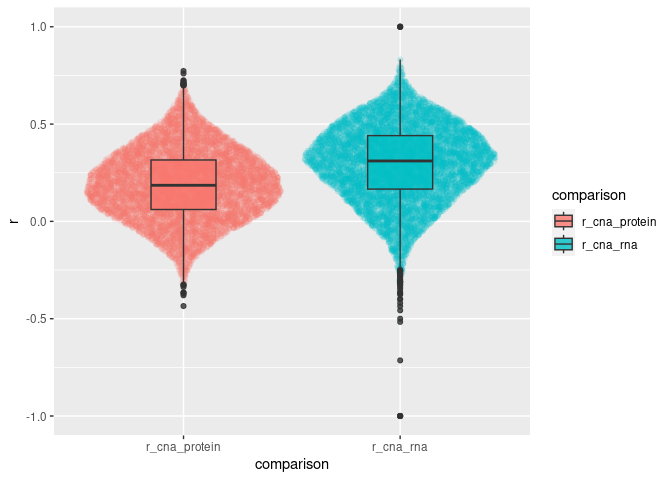
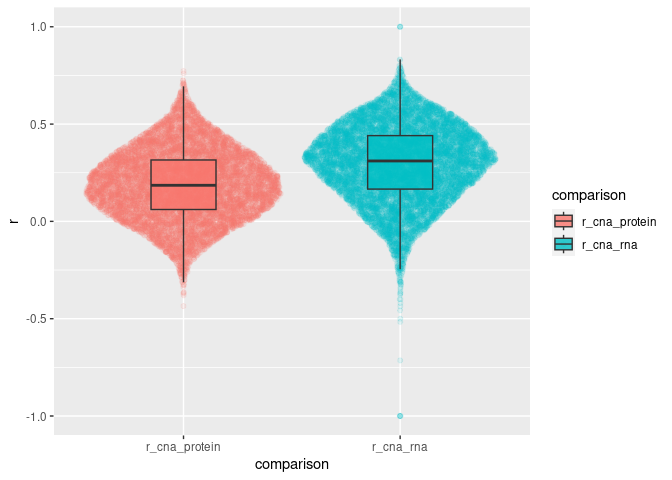
Removed outliers in boxplot.

diff --git a/simple_figures/simple_figures.md b/simple_figures/simple_figures.md
@@ -1,97 +1,97 @@
 
-## Simple figures
+## *Simple figures*
 
-In this short tutorial, we will see how to create publication-grade
+*In this short tutorial, we will see how to create publication-grade
 figures without using a mouse: we will write the instructions for the
-computer to draw the figures.
+computer to draw the figures.*
 
-### Objectives
+### *Objectives*
 
-After this mini-workshop, you should:
+*After this mini-workshop, you should:*
 
--   have a basic understanding of a workflow that can build figures
-    computationally
+-   *have a basic understanding of a workflow that can build figures
+    computationally*
 
--   be able to reproduce the examples on your own data
+-   *be able to reproduce the examples on your own data*
 
--   find help if you want to make new figures
+-   *find help if you want to make new figures*
 
-Before you can use this independently in your research, you will need
-to:
+*Before you can use this independently in your research, you will need
+to:*
 
--   learn how to import, tidy, and process data
+-   *learn how to import, tidy, and process data*
 
--   learn how to troubleshoot your work
+-   *learn how to troubleshoot your work*
 
--   practice and keep learning
+-   *practice and keep learning*
 
-### Want to learn more?
+### *Want to learn more?*
 
-This tutorial is a very brief introduction to some powerful tools for
-data science. Here are a few resources that you might find useful:
+*This tutorial is a very brief introduction to some powerful tools for
+data science. Here are a few resources that you might find useful:*
 
--   [Fundamentals of Data Visualization](clauswilke.com/dataviz) and
+-   [*Fundamentals of Data Visualization*](clauswilke.com/dataviz) *and
     [Data Visualization - A practical
     introduction](socviz.co/index.html), excellent books providing
     fundamental knowledge on data visualization. [Graphic methods for
     presenting
     facts](https://archive.org/details/graphicmethodsfo00brinrich/mode/1up?view=theater),
-    a reference book on data visualization Willard c. Brinton.
+    a reference book on data visualization Willard c. Brinton.*
 
--   [R for data science](r4ds.hadley.nz), a book on how to import, tidy,
-    transform, visualize, and model data using the tools that we
-    introduce in this workshop.
+-   [*R for data science*](r4ds.hadley.nz)*, a book on how to import,
+    tidy, transform, visualize, and model data using the tools that we
+    introduce in this workshop.*
 
--   [Open Science, Open Data, Open Source](osodos.org), OSODOS, a book
-    providing an overview over developments in open science.
+-   [*Open Science, Open Data, Open Source*](osodos.org)*, OSODOS, a
+    book providing an overview over developments in open science.*
 
--   Resources on [scientific color palettes](fabiocrameri.ch/colourmaps)
-    and [color perception
-    simulation](color-blindness.com/coblis-color-blindness-simulator).
+-   *Resources on [scientific color
+    palettes](fabiocrameri.ch/colourmaps) and [color perception
+    simulation](color-blindness.com/coblis-color-blindness-simulator).*
 
--   [Weird but sometimes useful charts](xeno.graphics) to get some
-    ideas.
+-   [*Weird but sometimes useful charts*](xeno.graphics) *to get some
+    ideas.*
 
-### Before the tutorial…
+### *Before the tutorial…*
 
-In order to get started quickly on the day we run this tutorial, please
+*In order to get started quickly on the day we run this tutorial, please
 do the following steps - it should only take a few minutes. If you
 encounter issues, no problem, we can discuss them at the beginning of
-the workshop.
+the workshop.*
 
-📝 Open [Krug et al., doi:
+*📝 Open [Krug et al., doi:
 10.1016/j.cell.2020.10.036](https://doi.org/10.1016/j.cell.2020.10.036)
 and look at the figures. Would you be able to make such figures for one
-of your papers?
+of your papers?*
 
-📝 Install the latest version of RStudio
+*📝 Install the latest version of RStudio
 \[link\](posit.co/download/rstudio-desktop/). Note that you will be
-asked to install R first.
+asked to install R first.*
 
-📝 Prepare two sets of data: (1) one data set with values from different
-categories, e.g. values in different conditions; (2) one data set with
-one value to plot against the other, e.g. height and weight of
-individuals.
+*📝 Prepare two sets of data: (1) one data set with values from
+different categories, e.g. values in different conditions; (2) one data
+set with one value to plot against the other, e.g. height and weight of
+individuals.*
 
-💡 Good file organization and naming can be a life saver, especially if
+*💡 Good file organization and naming can be a life saver, especially if
 you need to look up or change a figure after some time and in a
 stressful situation: a paper revision, the end of your PhD… Make sure to
 organize files in a clear folder organization, and use meaningful names.
 More on this in
-[OSODOS](https://pfern.github.io/OSODOS/gitbook/WORKFLOWS).
+[OSODOS](https://pfern.github.io/OSODOS/gitbook/WORKFLOWS).*
 
-📝 Make the plots the way you are used to using your favorite software
-and arrange them as a panel A and B for a publication.
+*📝 Make the plots the way you are used to using your favorite software
+and arrange them as a panel A and B for a publication.*
 
 *💬 How much did you use your mouse? What are the pros and cons of this
 approach?*
 
-📝 Optional but recommended: create an account at [GithHub](github.com)
-and [OpenAI](chat.openai.com).
+*📝 Optional but recommended: create an account at [GithHub](github.com)
+and [OpenAI](chat.openai.com).*
 
-### Download to your computer
+### *Download to your computer*
 
-This tutorial is made as a
+*This tutorial is made as a
 [notebook](https://en.wikipedia.org/wiki/Notebook_interface), a
 convenient way to process and plot data, while at the same time
 documenting what you do in a single document. Everything is stored
@@ -101,26 +101,26 @@ freely access and navigate code. The project is version-controlled using
 changes, have multiple versions on your computer, and revert to older
 versions, which is an essential component of [good practices in
 scientific data
-handling](https://pfern.github.io/OSODOS/gitbook/VERSIONING/).
+handling](https://pfern.github.io/OSODOS/gitbook/VERSIONING/).*
 
-📝 Open RStudio. Click on *File* -\> *New Project…,* Select *Version
-Control -\> Git*. As *Repository URL* paste
-`https://github.com/mvaudel/tutorials.git`. Use the *Browse* button to
-select where to download the files, and click *Create Project*.
+*📝 Open RStudio. Click on File -\> New Project…, Select Version Control
+-\> Git. As Repository URL paste
+`https://github.com/mvaudel/tutorials.git`. Use the Browse button to
+select where to download the files, and click Create Project.*
 
-📝 In the tab called Files open the folder *simple_figures* and open the
-file named *simple_figures.qmd*. You should now see the text of the
-tutorial.
+*📝 In the tab called Files open the folder simple_figures and open the
+file named simple_figures.qmd. You should now see the text of the
+tutorial.*
 
-### Install packages
+### *Install packages*
 
-Many packages are available for data science in different programming
+*Many packages are available for data science in different programming
 languages. In general, there is no one-size-fits-all package or
 pipeline, so it is very convenient to be able to pick and choose based
-on the requirements of a specific project.
+on the requirements of a specific project.*
 
-📝 To install the packages needed for this tutorial on your computer,
-click on the arrow in the code cell below.
+*📝 To install the packages needed for this tutorial on your computer,
+click on the arrow in the code cell below.*
 
 ``` r
 if (!"tidyverse" %in% installed.packages()) { # Skip if the package is already installed
@@ -140,9 +140,9 @@ if (!"scico" %in% installed.packages()) {
 }
 ```
 
-### Load packages
+### *Load packages*
 
-Now that the packages are installed, you can load them.
+*Now that the packages are installed, you can load them.*
 
 ``` r
 library("tidyverse") # A set of package to handle and plot data
@@ -164,20 +164,20 @@ library("ggforce")   # A package containing functions to create custom plots
 library("scico")     # A package with scientific color palettes
 ```
 
-### Values in categories
+### *Values in categories*
 
-In this section, we will plot values that are in different categories.
+*In this section, we will plot values that are in different categories.*
 
-#### Load data
+#### *Load data*
 
-The data we are going to plot are gene vs. RNA vs. Protein abundance
+*The data we are going to plot are gene vs. RNA vs. Protein abundance
 correlation values obtained from multiple cancer cell lines by [Krug et
 al., doi:
-10.1016/j.cell.2020.10.036](https://doi.org/10.1016/j.cell.2020.10.036).
+10.1016/j.cell.2020.10.036](https://doi.org/10.1016/j.cell.2020.10.036).*
 
-Note that for the sake of time, the data has been imported from the
+*Note that for the sake of time, the data has been imported from the
 supplementary files and put in a single table. You can see how in the
-script named [data_preparation.R](data_preparation.R) in this folder.
+script named [data_preparation.R](data_preparation.R) in this folder.*
 
 ``` r
 correlation_table = read.table(
@@ -187,17 +187,17 @@ correlation_table = read.table(
 )
 ```
 
-The table should now appear under the *Environment* tab, and if you
-click on it you will be able to inspect its content.
+*The table should now appear under the Environment tab, and if you click
+on it you will be able to inspect its content.*
 
 *💬 Is it not strange to have all correlation values in a single column,
 instead of making one column for CNA vs. RNA, and one for RNA
 vs. Protein?*
 
-#### Plot the correlation values
+#### *Plot the correlation values*
 
-A simple way to compare the correlation values between these two
-categories would be to make a box plot.
+*A simple way to compare the correlation values between these two
+categories would be to make a box plot.*
 
 ``` r
 ggplot() +
@@ -214,8 +214,8 @@ ggplot() +
 
 ![](simple_figures.markdown_strict_files/figure-markdown_strict/unnamed-chunk-4-1.png)
 
-To have a finer view at the distribution of points, one often makes
-violin plots. Note how easy it is to switch between geometries.
+*To have a finer view at the distribution of points, one often makes
+violin plots. Note how easy it is to switch between geometries.*
 
 ``` r
 ggplot() +
@@ -232,11 +232,12 @@ ggplot() +
 
 ![](simple_figures.markdown_strict_files/figure-markdown_strict/unnamed-chunk-5-1.png)
 
-These summary statistics [can hide important
+*These summary statistics [can hide important
 details](https://nightingaledvs.com/ive-stopped-using-box-plots-should-you/).
 An interesting trade-off is the [sina
 plot](https://clauswilke.com/dataviz/boxplots-violins.html#fig:lincoln-temp-sina),
-which shows the individual points with the jitter following the density.
+which shows the individual points with the jitter following the
+density.*
 
 ``` r
 ggplot() +
@@ -253,8 +254,8 @@ ggplot() +
 
 ![](simple_figures.markdown_strict_files/figure-markdown_strict/unnamed-chunk-6-1.png)
 
-You can easily overlay the different geometries, e.g. to combine the
-sina and box plots.
+*You can easily overlay the different geometries, e.g. to combine the
+sina and box plots.*
 
 ``` r
 ggplot() +
@@ -267,7 +268,7 @@ ggplot() +
     ),
     alpha = 0.1
   ) +
-    geom_boxplot(
+  geom_boxplot(
     data = correlation_table,
     mapping = aes(
       x = comparison,
@@ -275,14 +276,15 @@ ggplot() +
       fill = comparison
     ),
     alpha = 0.8,
-    width = 0.3
+    width = 0.3,
+    outlier.colour = NA
   )
 ```
 
 ![](simple_figures.markdown_strict_files/figure-markdown_strict/unnamed-chunk-7-1.png)
 
-Before showing such a plot to your colleagues, you might want to change
-a few things: the order of the categories, the labels, the colors, etc.
+*Before showing such a plot to your colleagues, you might want to change
+a few things: the order of the categories, the labels, the colors, etc.*
 
 ``` r
 correlation_table$comparison = factor(correlation_table$comparison, levels = c("r_cna_rna", "r_cna_protein"))
@@ -305,7 +307,7 @@ ggplot() +
     ),
     alpha = 0.1
   ) +
-    geom_boxplot(
+  geom_boxplot(
     data = correlation_table,
     mapping = aes(
       x = comparison,
@@ -313,18 +315,19 @@ ggplot() +
       fill = comparison
     ),
     alpha = 0.8,
-    width = 0.3
+    width = 0.3,
+    outlier.colour = NA
   ) +
   scale_y_continuous(
     name = "Spearman's R"
   ) +
-    theme(
-        axis.title.x = element_blank(),
-        panel.grid.major.x = element_blank(),
-        panel.grid.minor.x = element_blank(),
-        panel.border = element_blank(),
-        legend.position = "none"
-    )
+  theme(
+    axis.title.x = element_blank(),
+    panel.grid.major.x = element_blank(),
+    panel.grid.minor.x = element_blank(),
+    panel.border = element_blank(),
+    legend.position = "none"
+  )
 ```
 
 ![](simple_figures.markdown_strict_files/figure-markdown_strict/unnamed-chunk-8-1.png)
